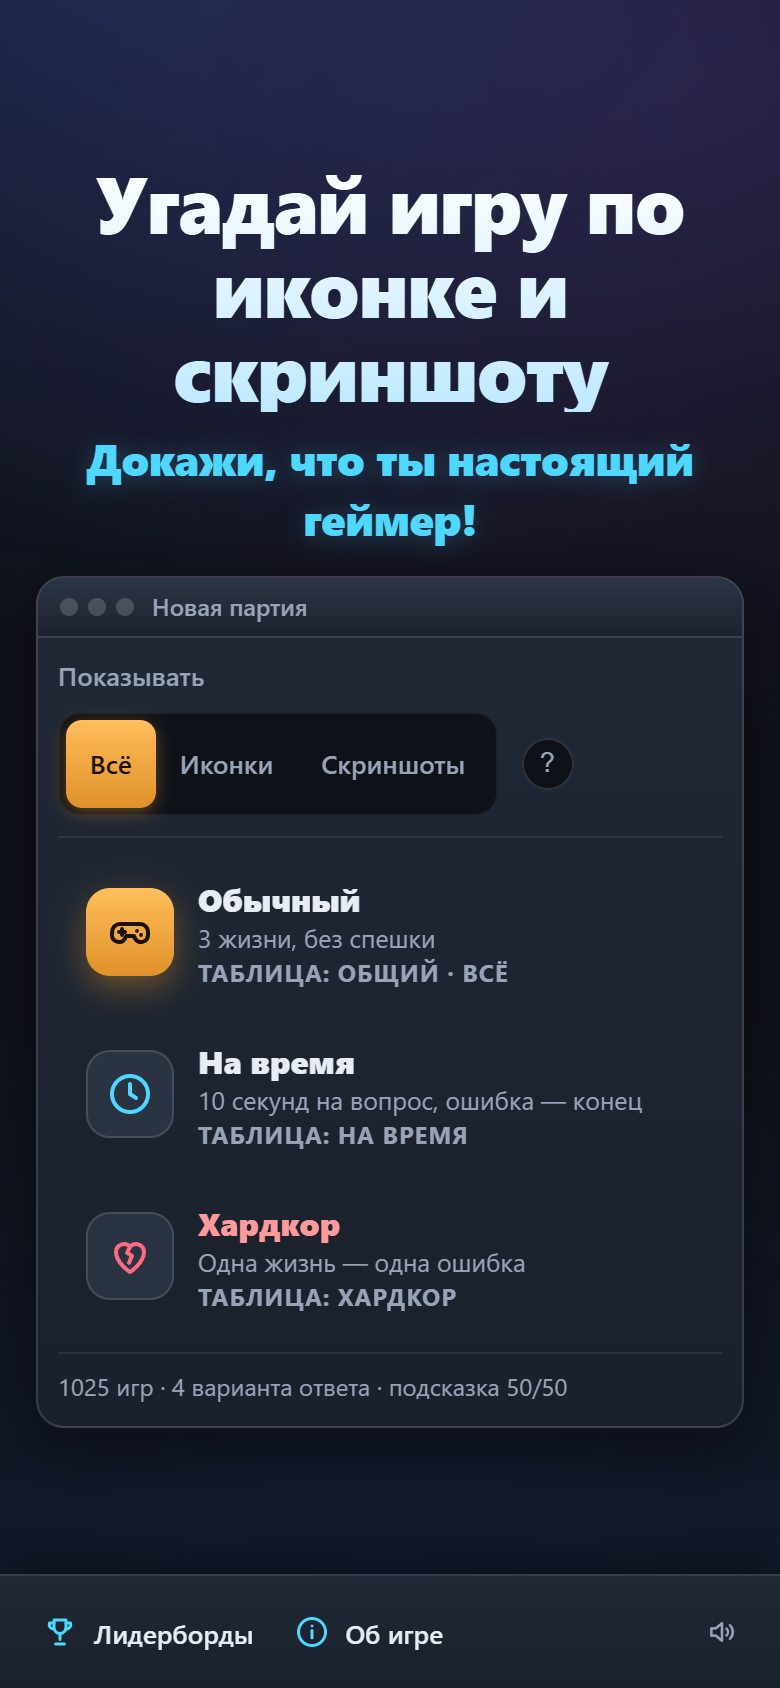
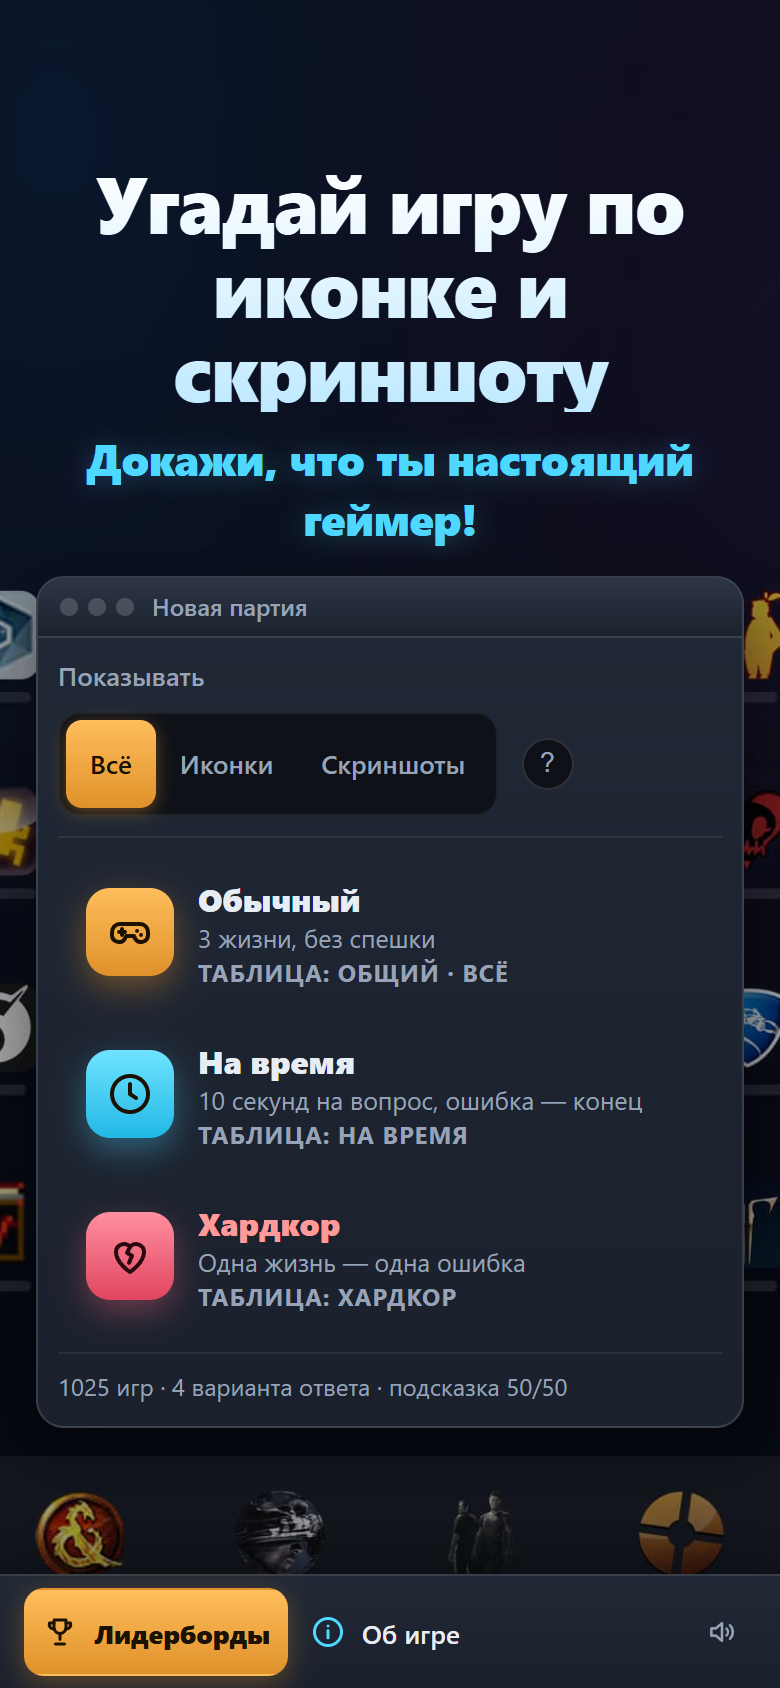
Обои-стол, кнопка «Пуск», свои цвета ярлыков, проверка на мобиле
Фон стартового экрана — свёрстанный и слегка размытый «рабочий стол»,
запечённый в картинку (scripts/make-desk.mjs, npm run desk): ландшафту —
колонки ярлыков и два окна, портрету — домашний экран телефона с сеткой
значков и доком, верх пуст под заголовок. Ярлыки — иконки игр из своего
набора. Картинка вместо CSS-фильтра: живой blur на весь экран дорог для
слабых телефонов, два JPEG весят 35 и 33 КБ.

«Лидерборды» — кнопка «Пуск» слева на панели задач, залита акцентом.
У каждого режима своя заливка значка: янтарь, циан, коралл.

Вёрстка пересмотрена глазами на 390x844, 360x740, 375x667 и 844x390 по всем
экранам и модалкам с рекордом и самыми длинными названиями — кривых мест
нет. Строка состояния в ландшафте шире 600px снова видна: ярус стоит после
«крошечных окон», при равной специфичности решает порядок.

sweep 0 из 2135, скриншоты карточки пересняты, архив пересобран.

diff --git a/public/css/style.css b/public/css/style.css
@@ -344,7 +344,21 @@ body {
    обоями и панелью центрируется автоотступами: пока влезает — по центру,
    перестало — прижимается к верху и прокручивается, а не срезает заголовок
    (тот же смысл, что у safe center на .screen--center). */
-.desk { align-items: center; text-align: center; overflow-y: auto; padding-bottom: 0; }
+.desk {
+  align-items: center;
+  text-align: center;
+  overflow-y: auto;
+  padding-bottom: 0;
+  /* Обои: свёрстанный и слегка размытый «рабочий стол» — колонки ярлыков и
+     пара окон, — запечённый в картинку scripts/make-desk.mjs. Размывать вживую
+     CSS-фильтром на весь экран дорого на слабых телефонах, картинка стоит
+     ничего. Портрету — свои обои: у телефона это домашний экран с сеткой
+     значков и доком, а ландшафтные обои cover обрезал бы до пустой середины. */
+  background: var(--bg) url(../img/desk-land.jpg) center / cover no-repeat;
+}
+@media (orientation: portrait) {
+  .desk { background-image: url(../img/desk-port.jpg); }
+}
 .desk__main {
   display: flex;
   flex-direction: column;
@@ -438,13 +452,24 @@ body {
   box-shadow: inset 0 0 0 1px var(--line-2);
 }
 .mode__icon svg { width: 24px; height: 24px; }
-/* «Обычный» — главный: значок залит акцентом, как кнопка действия. */
+/* У каждого ярлыка своя заливка значка, как у значков на столе: янтарь —
+   «Обычный», циан — «На время», коралл — «Хардкор». Текст на всех тёмный:
+   на светлых заливках он держит контраст от 6:1, белый не дотянул бы. */
 .mode--primary .mode__icon {
   background: var(--accent-fill);
   color: var(--accent-ink);
   box-shadow: 0 6px 16px rgba(var(--fill-rgb), 0.4);
 }
-.mode--hard .mode__icon { color: var(--bad); }
+.mode--timed .mode__icon {
+  background: linear-gradient(180deg, #6fe3ff, #22b8e6);
+  color: var(--accent-ink);
+  box-shadow: 0 6px 16px rgba(var(--accent-rgb), 0.35);
+}
+.mode--hard .mode__icon {
+  background: linear-gradient(180deg, #ff8fa0, #e0455e);
+  color: #2a0a10;
+  box-shadow: 0 6px 16px rgba(255, 107, 129, 0.35);
+}
 
 .mode__text { display: flex; flex-direction: column; gap: 1px; min-width: 0; }
 .mode__name { font-size: 16px; font-weight: 800; }
@@ -540,6 +565,22 @@ body {
 .task:active { background: var(--sel-2); }
 .task__ico { display: inline-flex; color: var(--accent); }
 .task__ico svg { width: 18px; height: 18px; }
+
+/* «Пуск»: лидерборды — главная кнопка панели, залита акцентом и стоит слева,
+   как у настоящей. */
+.task--start {
+  background: var(--accent-fill);
+  color: var(--accent-ink);
+  border-color: transparent;
+  font-weight: 800;
+  padding-inline: 14px;
+  box-shadow: 0 4px 14px rgba(var(--fill-rgb), 0.35);
+}
+.task--start .task__ico { color: var(--accent-ink); }
+@media (hover: hover) {
+  .task--start:hover { background: var(--accent-fill); border-color: transparent; filter: brightness(1.07); }
+}
+.task--start:active { background: var(--accent-fill); filter: brightness(0.94); }
 
 /* Звук — в трее справа: только значок, без подписи, динамик понятен без слов. */
 .task--icon { padding: 8px 10px; }
@@ -1589,8 +1630,6 @@ body {
 @media (orientation: landscape) and (min-width: 600px) and (max-height: 560px) {
   .modes { grid-template-columns: repeat(3, 1fr); gap: 4px; }
   .mode { padding: 4px 8px; gap: 8px; }
-  /* Ряд вместо столбика освободил высоту — строке состояния место есть. */
-  .win__status { display: flex; }
 }
 
 /* Крошечные окна (320x320, 320x430): панель задач и переключатель ужимаются до
@@ -1615,4 +1654,11 @@ body {
   .taskbar__clock { display: none; }
   .taskbar { gap: 2px; }
   .task { font-size: 13px; padding-inline: 8px; }
+}
+
+/* Телефон лёжа шире 600px: ряд вместо столбика освободил высоту, и строке
+   состояния место есть. Стоит после яруса «крошечные окна», который прячет её
+   на всём ниже 440px, — при равной специфичности решает порядок. */
+@media (orientation: landscape) and (min-width: 600px) and (max-height: 560px) {
+  .win__status { display: flex; }
 }

diff --git a/public/index.html b/public/index.html
@@ -69,7 +69,7 @@
                 <span id="mode-board-normal" class="mode__board">Таблица: Общий · Всё</span>
               </span>
             </button>
-            <button id="btn-play-timed" class="mode" type="button">
+            <button id="btn-play-timed" class="mode mode--timed" type="button">
               <span class="mode__icon" aria-hidden="true">
                 <svg viewBox="0 0 24 24" fill="none" stroke="currentColor" stroke-width="2" stroke-linecap="round" stroke-linejoin="round"><circle cx="12" cy="12" r="9"/><path d="M12 7v5l3 2"/></svg>
               </span>
@@ -111,7 +111,7 @@
 
     <!-- Панель задач. Кнопки — 44px в высоту (п. 1.8). -->
     <div class="taskbar">
-      <button id="btn-board" class="task" type="button">
+      <button id="btn-board" class="task task--start" type="button">
         <span class="task__ico" aria-hidden="true"><svg viewBox="0 0 24 24" fill="none" stroke="currentColor" stroke-width="2" stroke-linecap="round" stroke-linejoin="round"><path d="M8 4h8v5a4 4 0 0 1-8 0V4z"/><path d="M8 6H5a3 3 0 0 0 3 4M16 6h3a3 3 0 0 1-3 4M12 13v4M9 20h6"/></svg></span>
         Лидерборды
       </button>

diff --git a/PATCH.md b/PATCH.md
@@ -47,6 +47,22 @@
   подпись «При съёмках ни один ярлык не пострадал», — «Материалы», кнопка
   «ОК». Лидерборды тоже получили строку заголовка окна.
 
+- **Игра**: **обои стола** — свёрстанный и слегка размытый «рабочий стол»,
+  запечённый в картинку (`scripts/make-desk.mjs`, `npm run desk`): ландшафту —
+  три колонки ярлыков и два окна, портрету — домашний экран телефона с сеткой
+  значков в нижней половине и доком. Ярлыки — иконки игр из своего набора с
+  сидом, подписи — серые полоски. Картинка, а не CSS-фильтр: живой blur на
+  весь экран дорог для слабых телефонов, а два JPEG весят 35 и 33 КБ. Верх
+  портретных обоев пуст намеренно — под ним заголовок, сетка делала его шумным.
+
+- **Игра**: «Лидерборды» — кнопка **«Пуск»**: залита акцентом и стоит слева
+  на панели задач. У каждого ярлыка-режима своя заливка значка — янтарь, циан,
+  коралл, — как у значков на столе; текст на всех тёмный.
+
+- **Игра**: вёрстка пересмотрена глазами на 390x844, 360x740, 375x667 и
+  844x390 — все экраны и модалки, с рекордом в строке состояния и самыми
+  длинными названиями в вариантах. Кривых мест не нашлось.
+
 - **Игра**: панель задач и переключатель на низких окнах ужимаются до 36px,
   палец ловит накладка 44px; ниже 360px высоты ярлыки режимов остаются без
   значков; на ширине до 400px часы прячутся. Иначе на 320x320 стол вылезал на

diff --git a/MODERATION.md b/MODERATION.md
@@ -233,6 +233,10 @@ Beholder рассмотрена вблизи — вымышленный знак
 Часы на панели задач и «Свойства: Угадай игру.exe» — оформление внутри
 игры, элементов площадки и рекламы они не имитируют.
 
+Обои стартового экрана (`img/desk-land.jpg`, `img/desk-port.jpg`) — свои,
+собраны скриптом из иконок того же набора, что играется, размыты и затемнены;
+названий, чужих логотипов сторов и адресов на них нет.
+
 ## Время до ready() и загрузка картинок (17.09.2026)
 
 По опыту соседней викторины проверили скорость загрузки на эмуляции 3G. Сами
